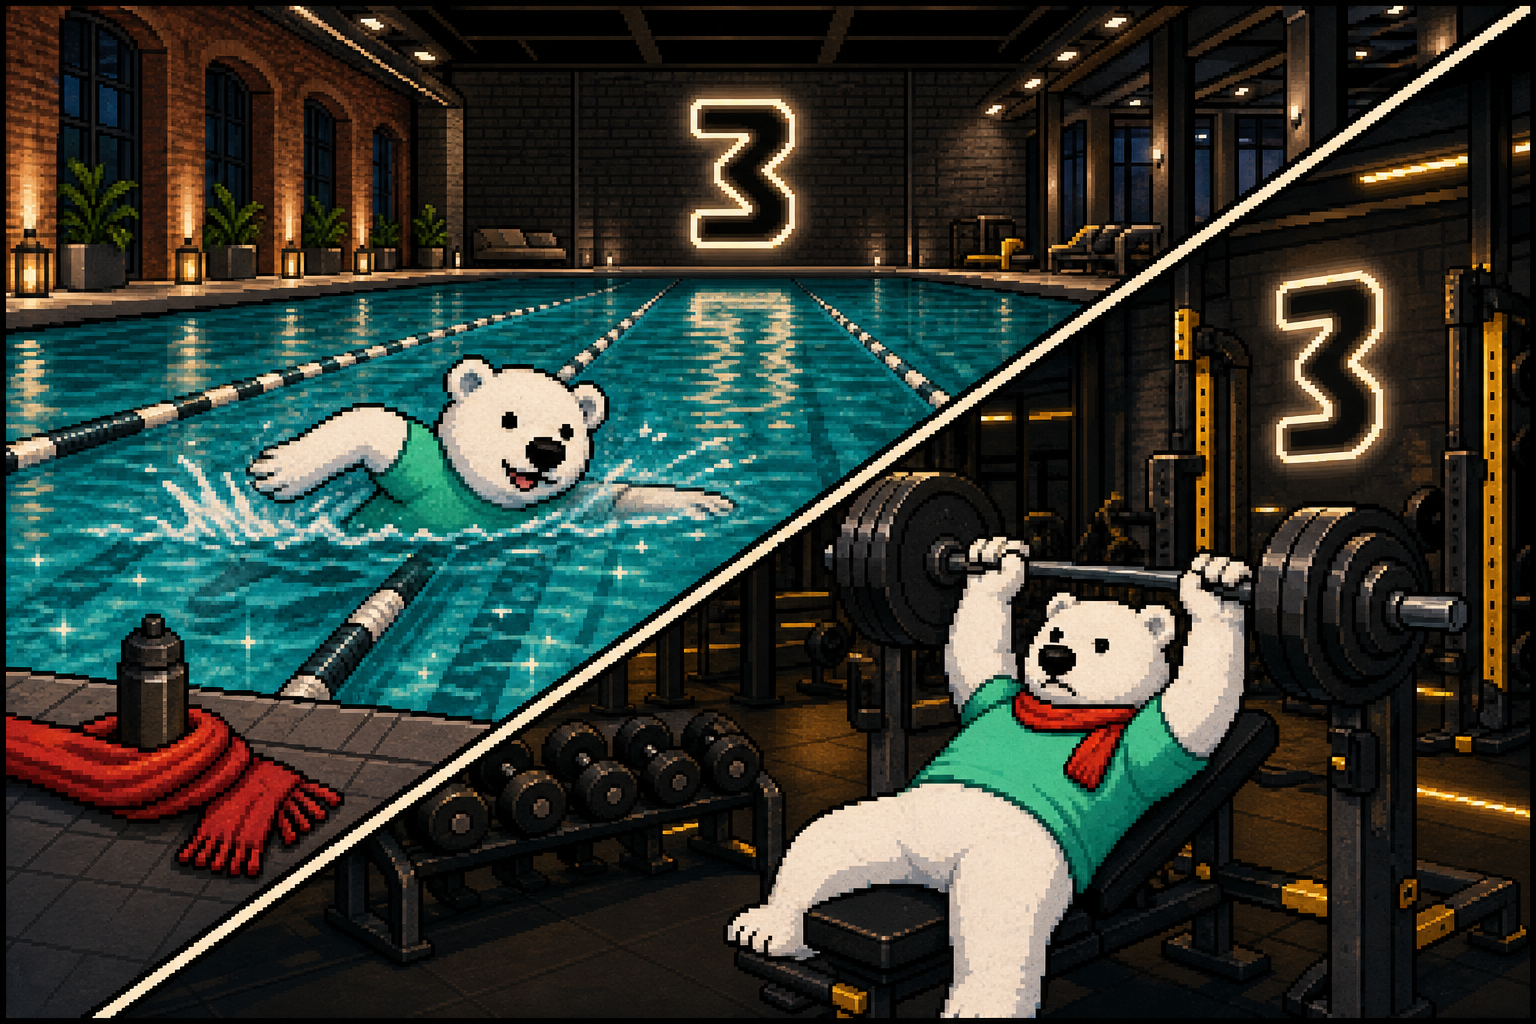
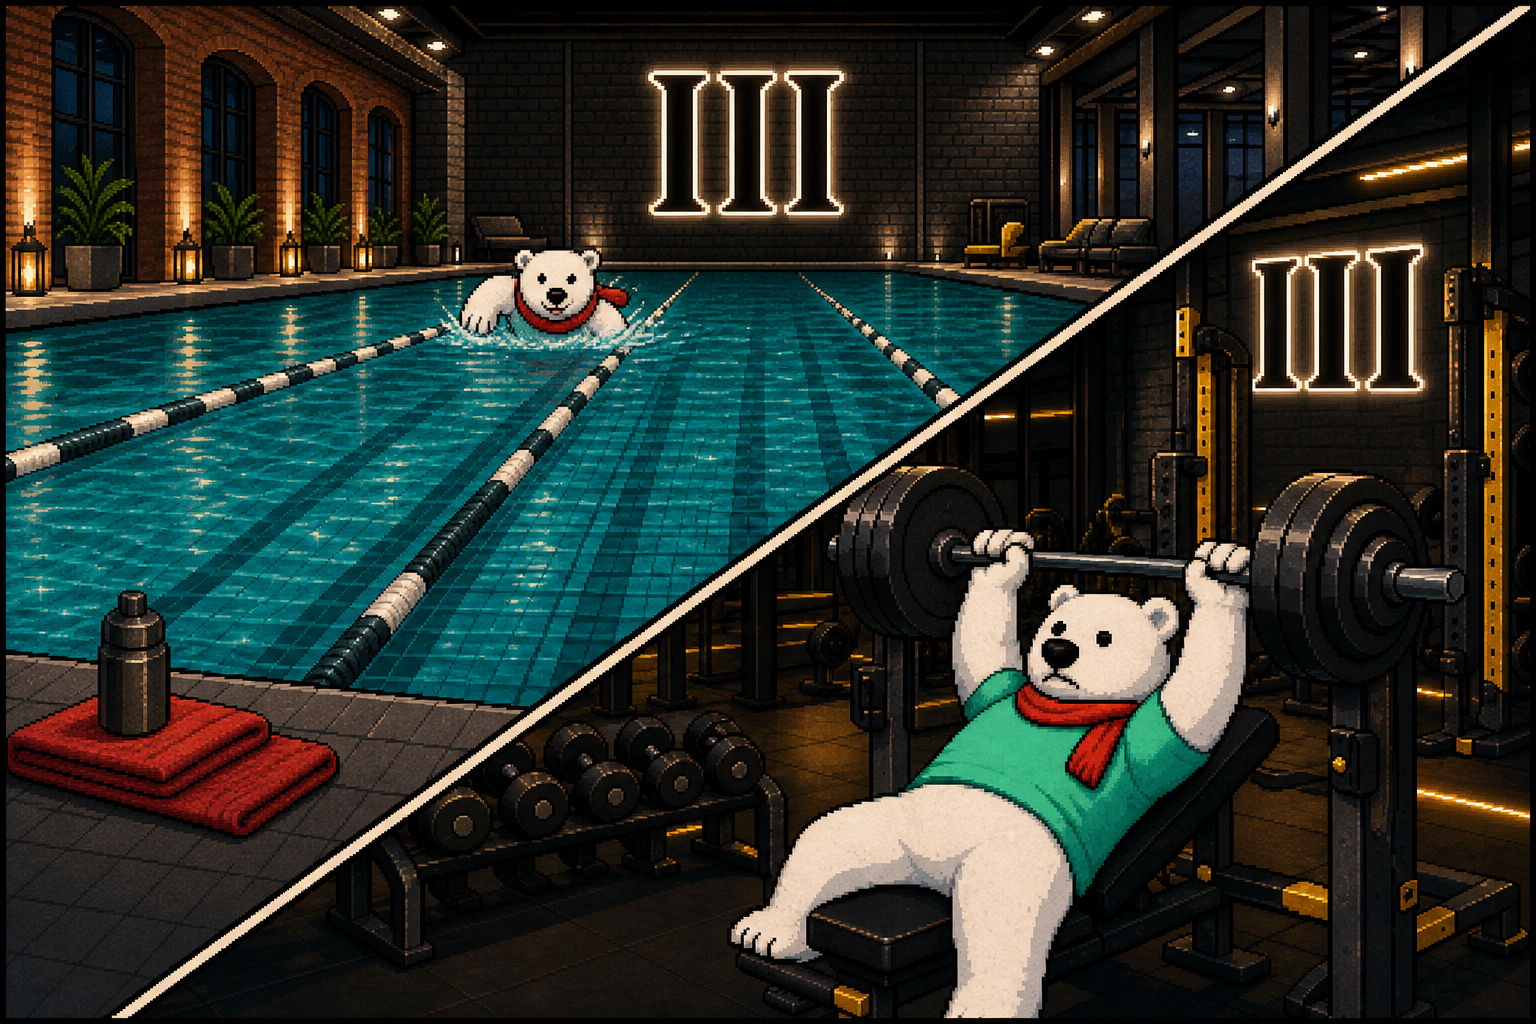
Fix Gym Time scene and raise map zoom for London pins
- Roman serif III logo, Abei swims toward camera from pool end
- maxZoom 18 and fly-to zoom 15 so Battersea and Wandsworth separate

diff --git a/src/components/AbeiMap.tsx b/src/components/AbeiMap.tsx
@@ -62,7 +62,7 @@ function FlyToActive({ sighting }: { sighting: Sighting | null }) {
     }
     if (lastId.current === sighting.id) return
     lastId.current = sighting.id
-    map.flyTo([sighting.lat, sighting.lng], Math.max(map.getZoom(), 3.5), {
+    map.flyTo([sighting.lat, sighting.lng], Math.max(map.getZoom(), 15), {
       duration: 0.75,
     })
   }, [map, sighting])
@@ -90,7 +90,7 @@ export function AbeiMap({ sightings, activeId, onSelect }: AbeiMapProps) {
       center={[20, 20]}
       zoom={2}
       minZoom={2}
-      maxZoom={10}
+      maxZoom={18}
       worldCopyJump
       scrollWheelZoom
       dragging
@@ -104,6 +104,7 @@ export function AbeiMap({ sightings, activeId, onSelect }: AbeiMapProps) {
         attribution='&copy; <a href="https://www.openstreetmap.org/copyright">OpenStreetMap</a> &copy; <a href="https://carto.com/">CARTO</a>'
         url="https://{s}.basemaps.cartocdn.com/dark_all/{z}/{x}/{y}{r}.png"
         subdomains="abcd"
+        maxZoom={18}
       />
       <ZoomControl position="bottomleft" />
       <EnsureMapControls />
